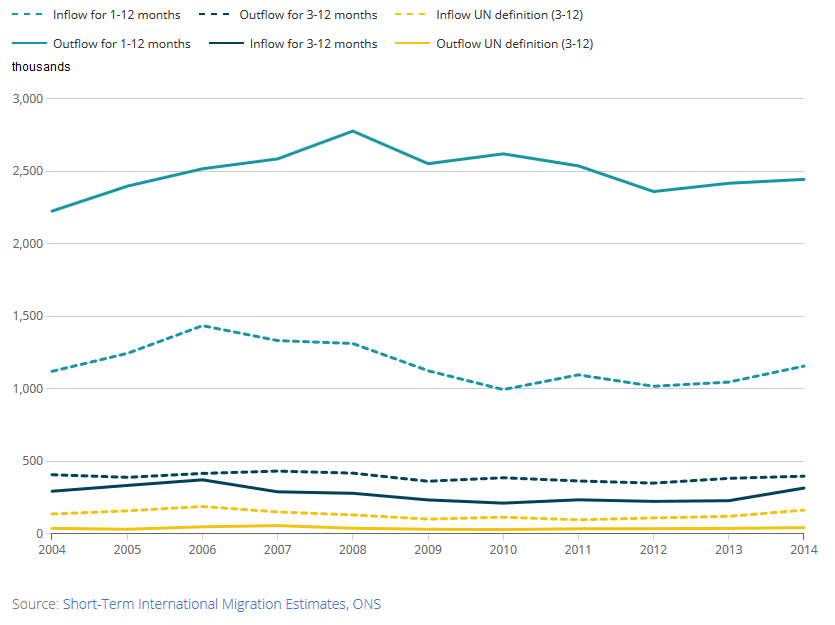
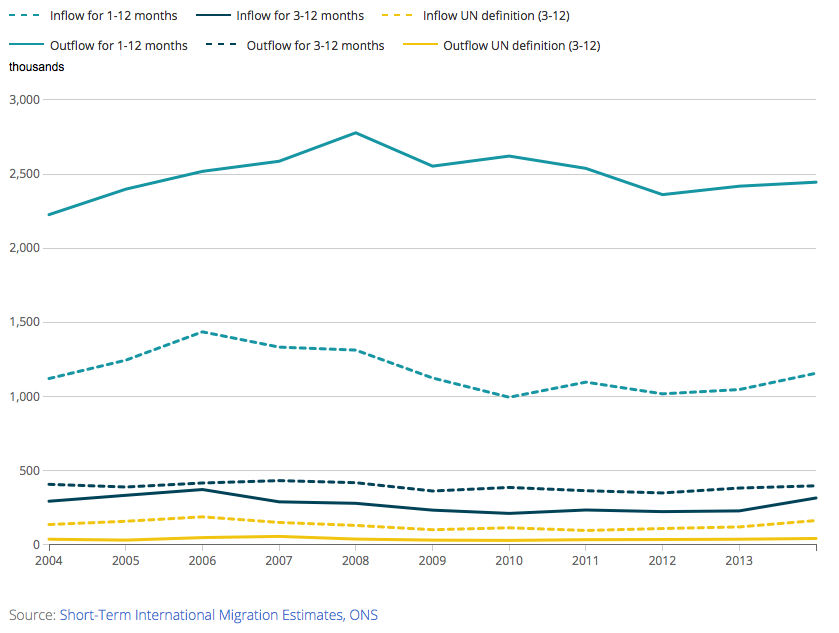
legend swaps

diff --git a/dvc330/fig7/fig7/index.html b/dvc330/fig7/fig7/index.html
@@ -20,10 +20,10 @@
 		.line-5 { stroke: #F1C40F; }
 	
 		.border0 { border-top: 2px dashed #1695A3; }
-        .border1 { border-top: 2px dashed #004358; }
+        .border1 { border-top: 2px solid #004358; }
         .border2 { border-top: 2px dashed #F1C40F; }
 		.border3 { border-top: 2px solid #1695A3; }
-		.border4 { border-top: 2px solid #004358; }
+		.border4 { border-top: 2px dashed #004358; }
 		.border5 { border-top: 2px solid #F1C40F; }
     
     </style>
